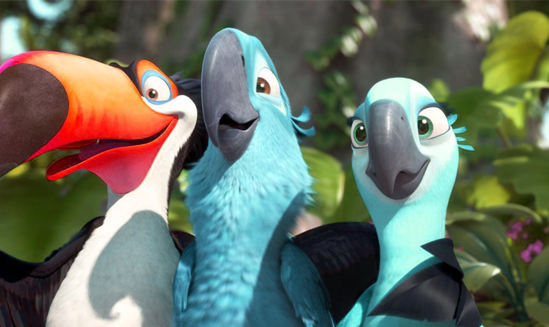
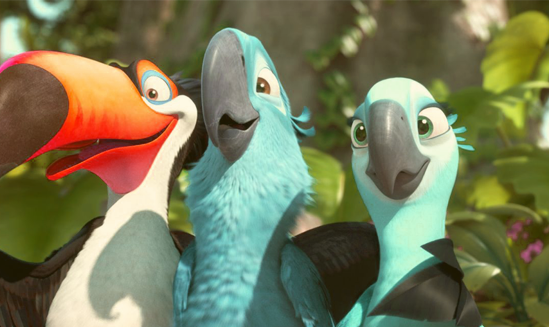
fix: rename and add correct background for video

diff --git a/index.html b/index.html
@@ -39,7 +39,7 @@
       <main>
 
         <section class="section-1">
-          <video class="section-1__video" poster="./assets/img/main_section-1_video_background_shadow.png" width="549"
+          <video class="section-1__video" poster="./assets/img/main_section-1_video_background.png" width="549"
             height="327" controls></video>
           <div class="section-1__rectangle">
             <a class="section-1__rectangle-left" href="#"><img src="./assets/img/main_section-1_arrow_left.svg"
